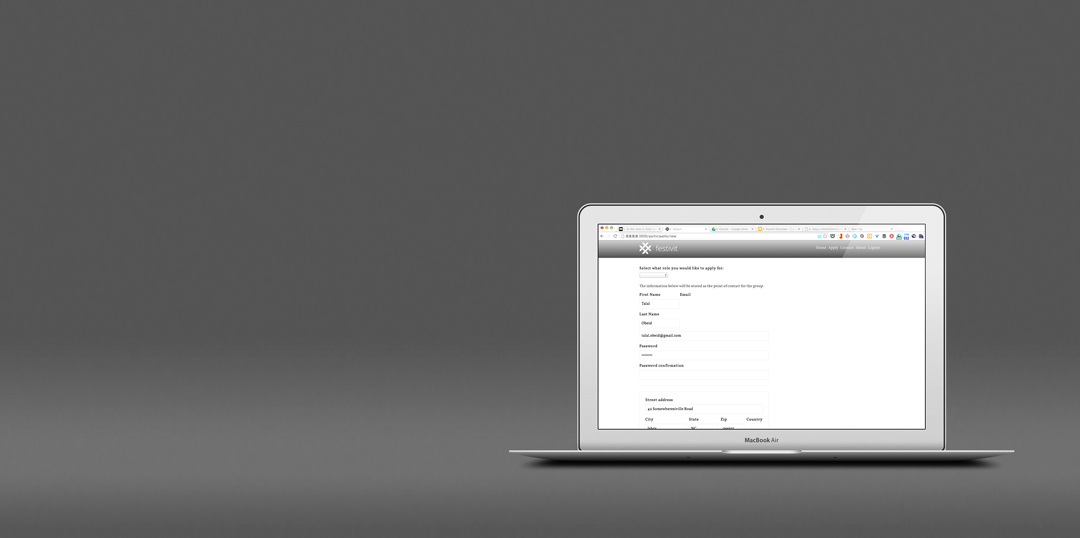
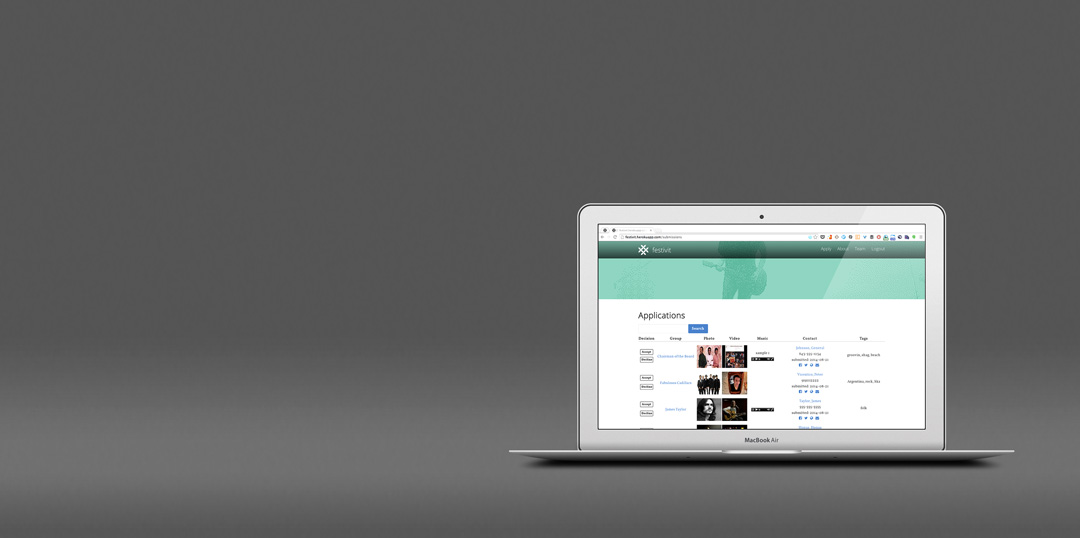
added viewport meta tag and changed dashboard image in macbook

Changed region(s): [[0.55, 0.4164, 0.8556, 0.803], [0.7944, 0.684, 0.825, 0.7138]]

diff --git a/app/assets/stylesheets/welcome.css.scss b/app/assets/stylesheets/welcome.css.scss
@@ -205,7 +205,7 @@ div.cont4 {
   width: 100%;
   height: 800px;
   z-index: 99;
-  color: white;
+  color: $dark-gray;
   
   @include media($mobile) {
     background-image: asset-url('iphonec.jpg');
